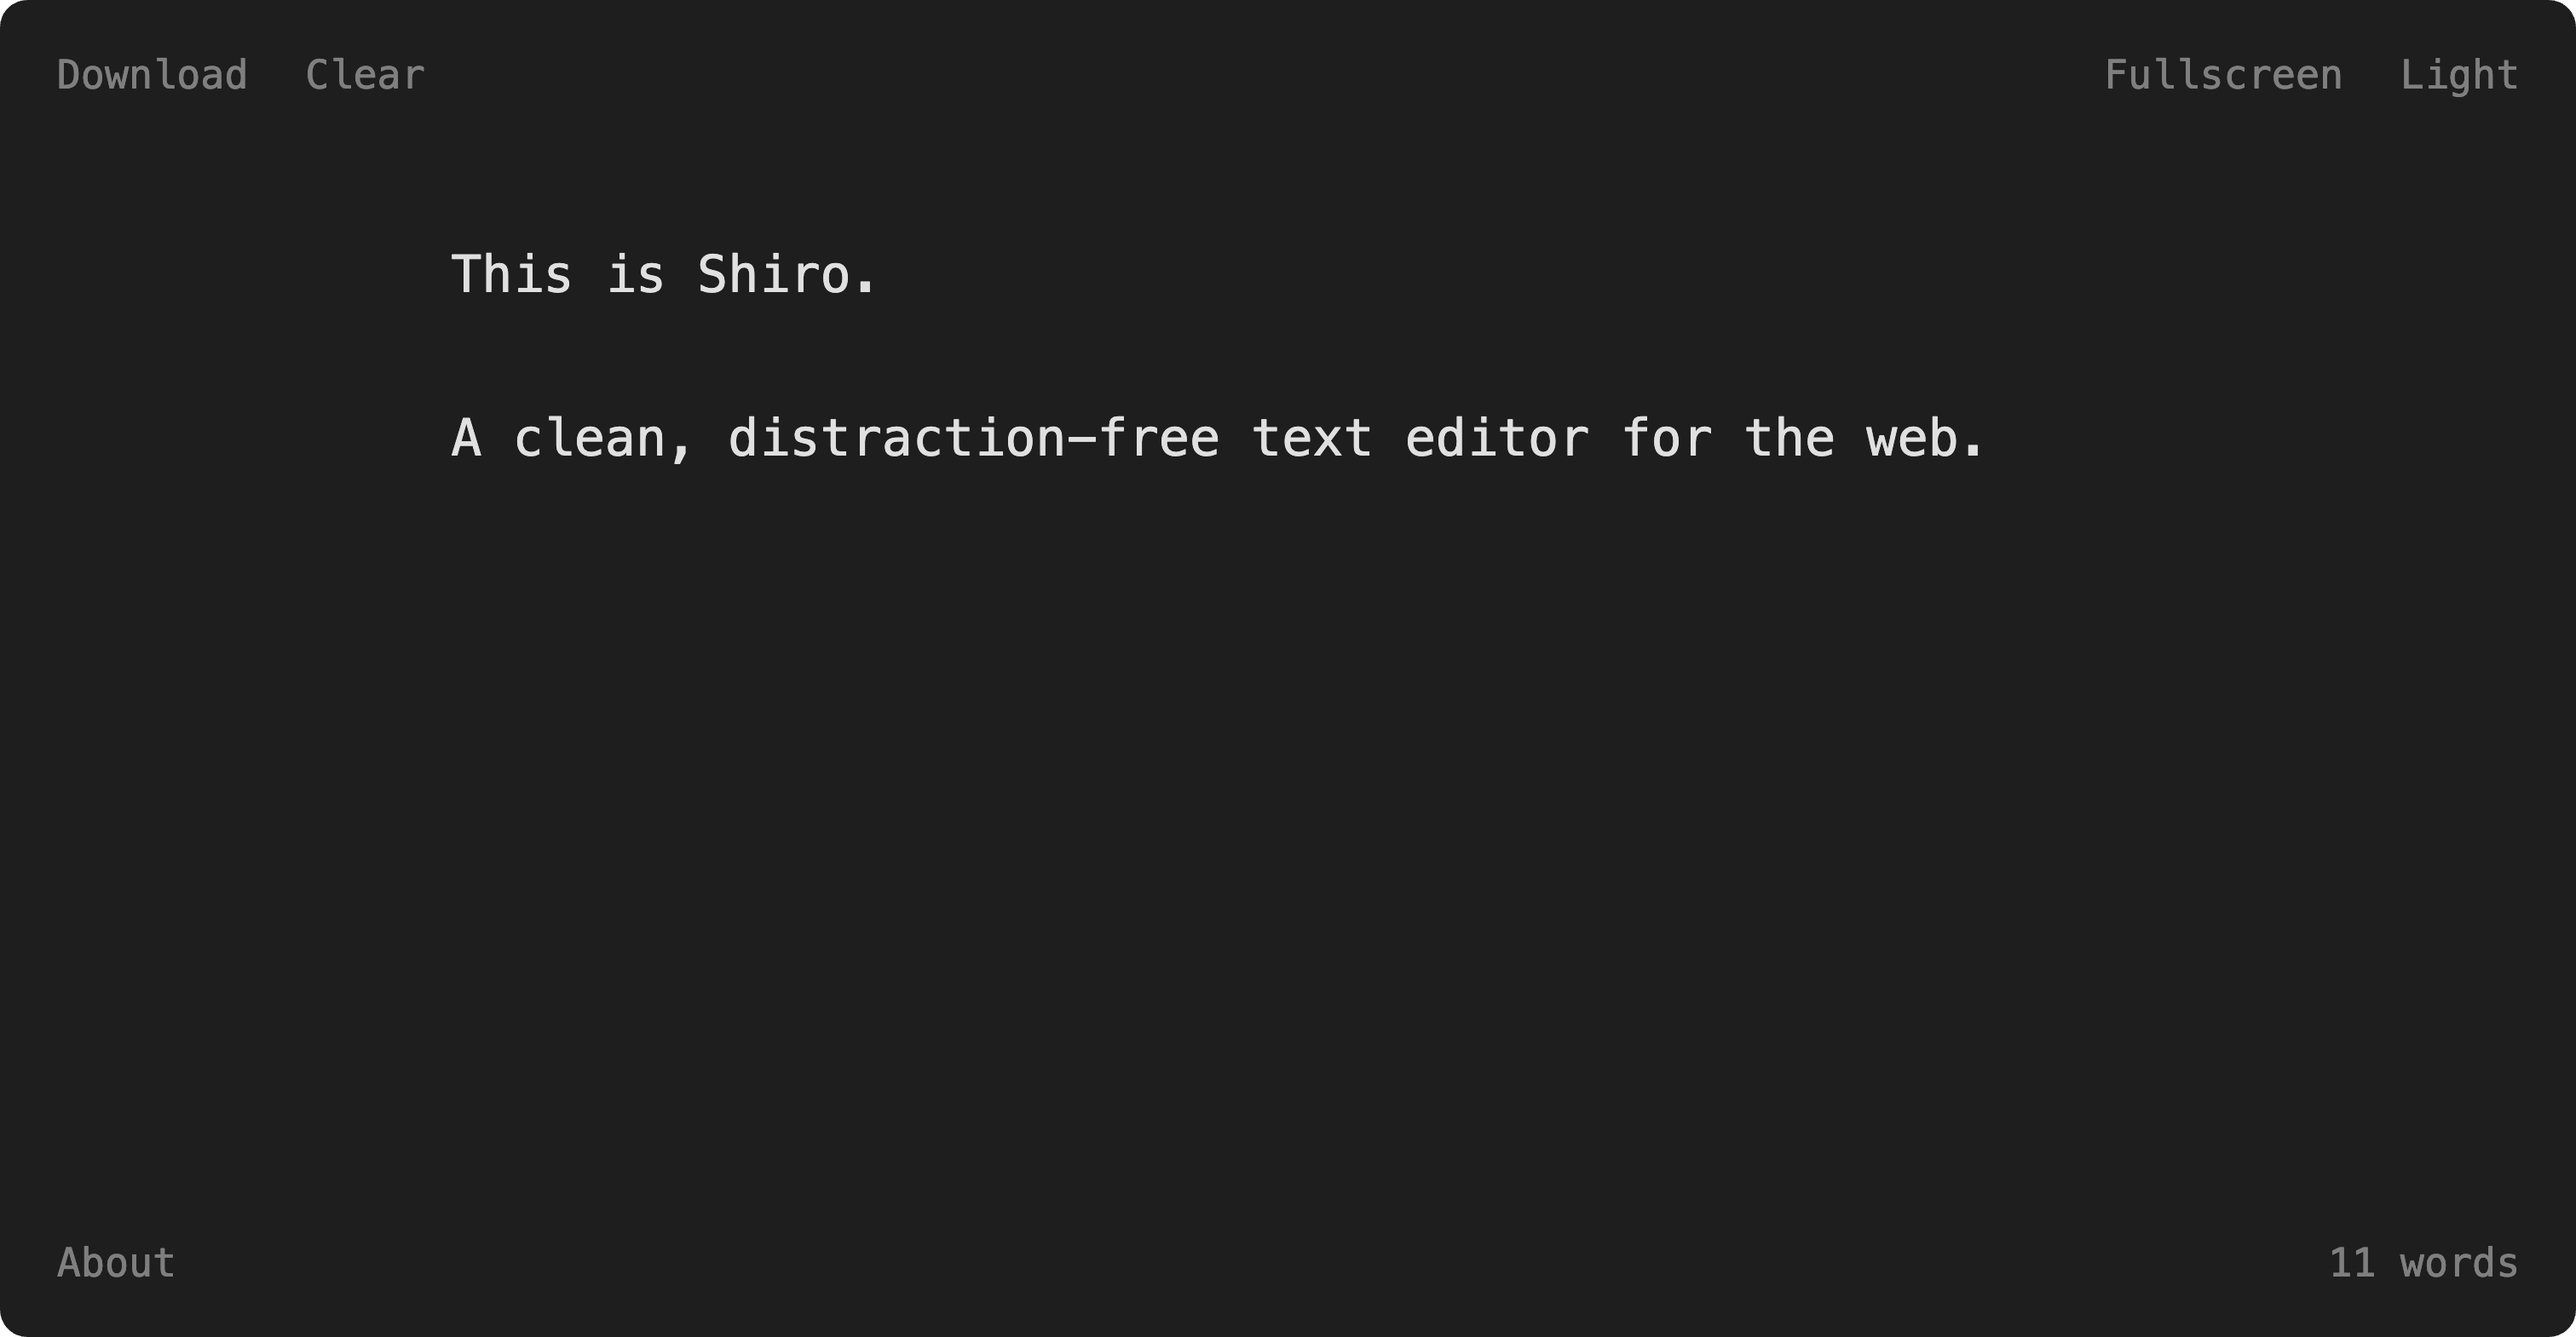
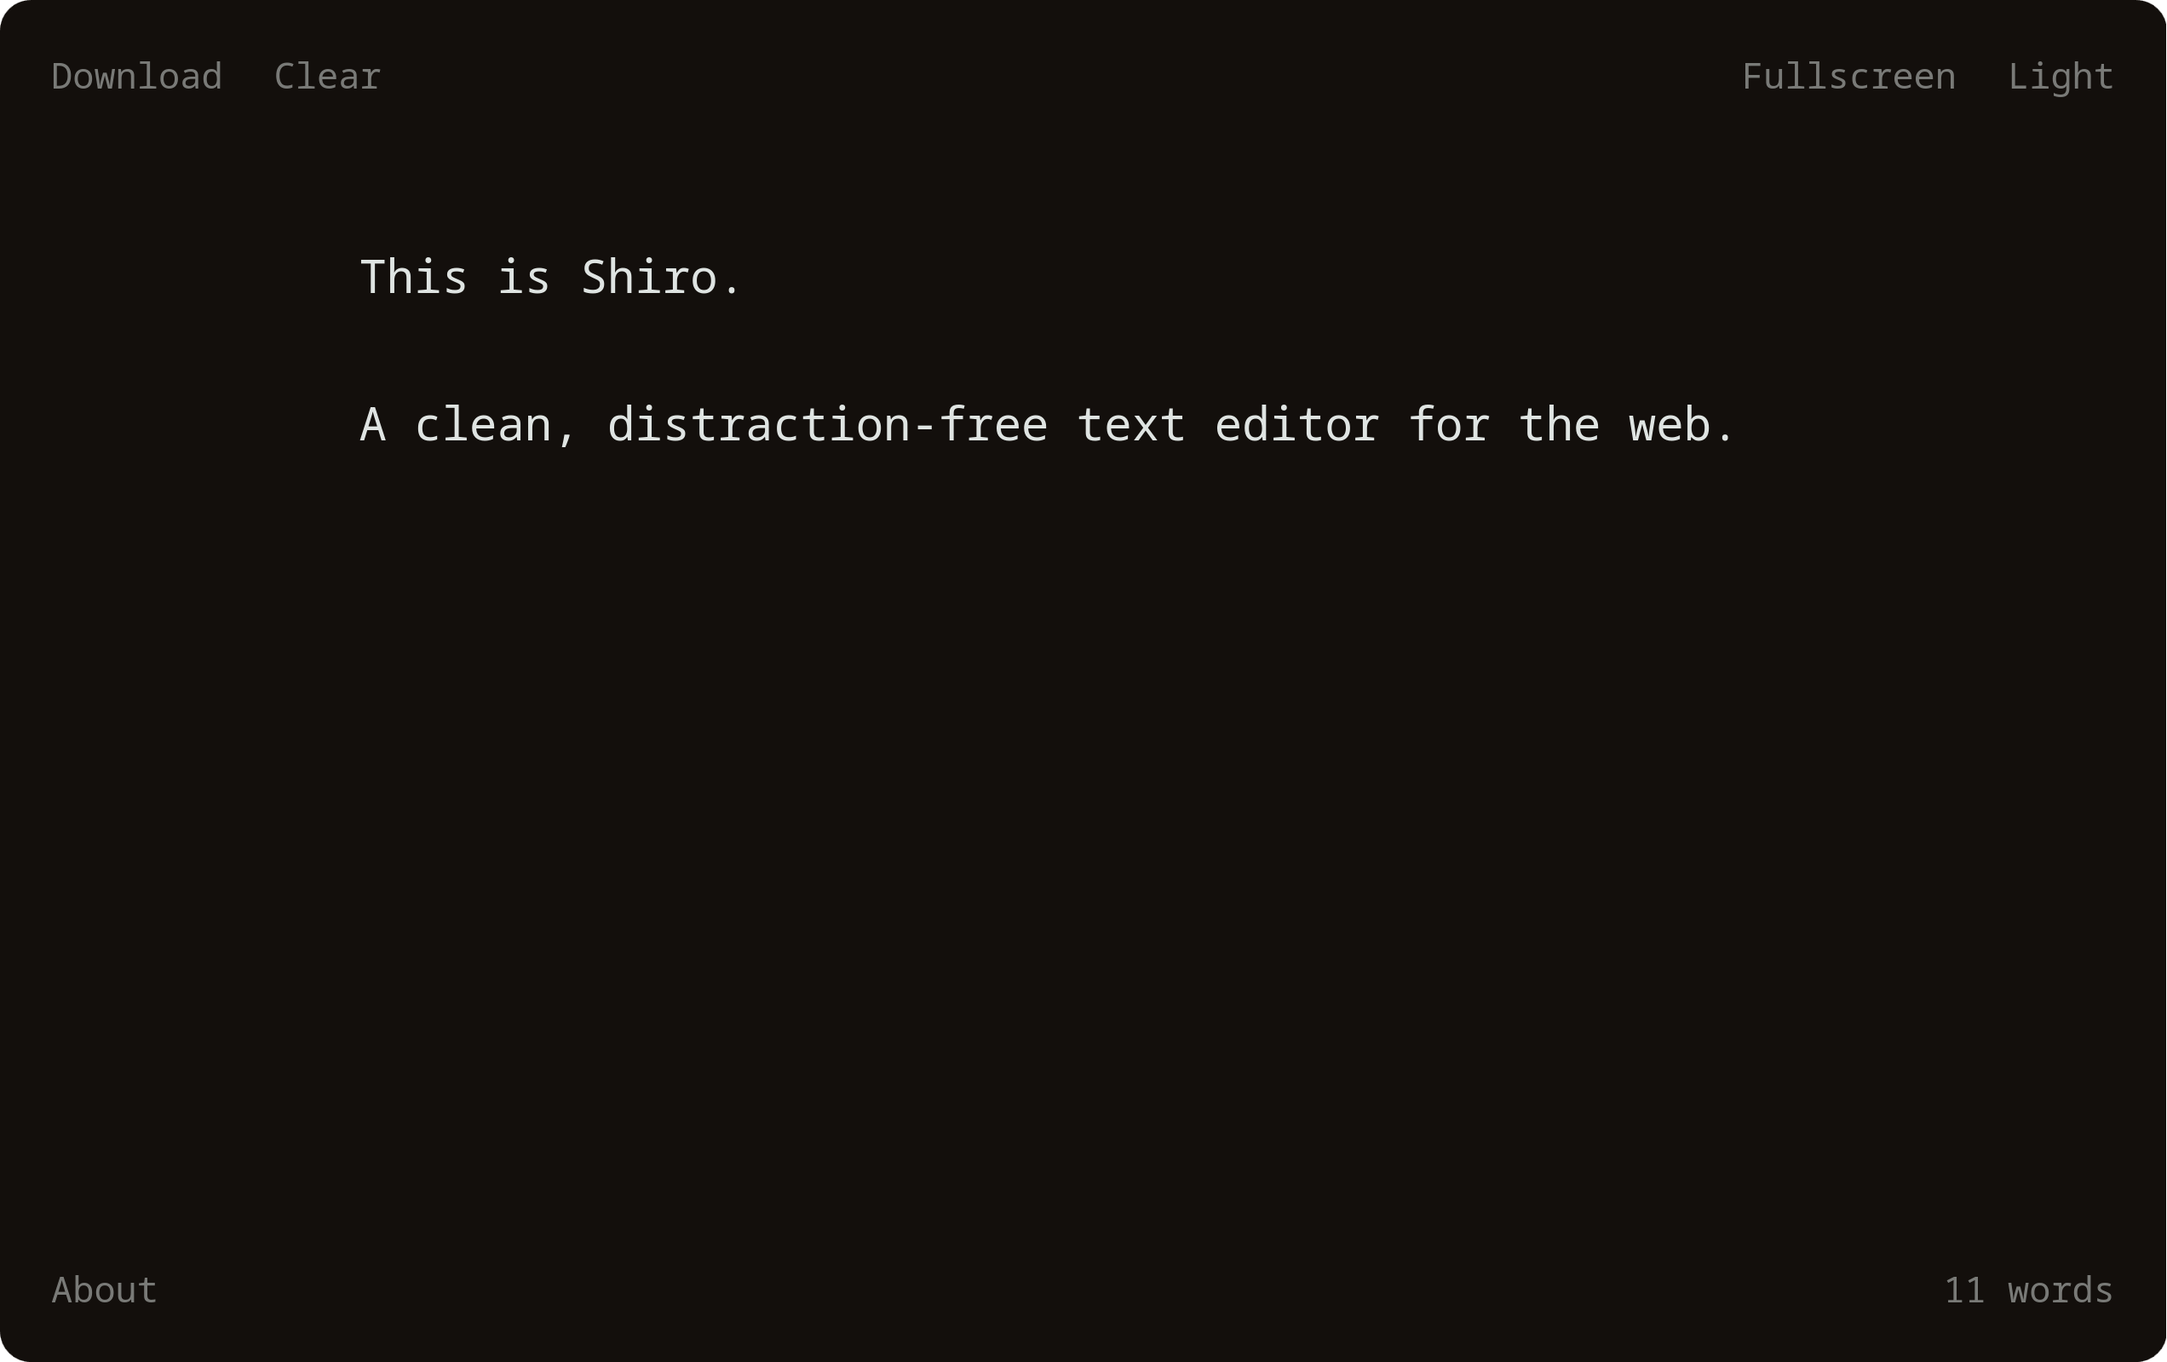
Update README (#19)

diff --git a/README.md b/README.md
@@ -4,20 +4,20 @@ A clean, distraction-free text editor for the web.
 
 <p align="center">
   <a href="https://vsakkas.github.io/shiro/">
-    <img src="assets/screenshot_dark.png" alt="Shiro Text Editor">
+    <img src="assets/screenshot_light.png" alt="Shiro Text Editor">
   </a>
   <i>Click the image to try Shiro</i>
 </p>
 
 ## Features
 
-- **Distraction-Free Writing** — Clean interface that fades away as you type
-- **Dark & Light Themes** — Easy on the eyes, day or night
-- **Auto-Save** — Your text stays safe in your browser
-- **Word Count** — Track your progress effortlessly
-- **Export to File** — Save your work as a plain text file
-- **Full-Screen Mode** — Immerse yourself completely
-- **Privacy First** — No tracking, no cookies, no accounts
+- **Distraction-Free Writing** - Clean interface that fades away as you type
+- **Dark & Light Themes** - Easy on the eyes, day or night
+- **Auto-Save** - Your text stays safe in your browser
+- **Word Count** - Track your progress effortlessly
+- **Export to File** - Save your work as a plain text file
+- **Full-Screen Mode** - Immerse yourself completely
+- **Privacy First** - No tracking, no cookies, no accounts
 
 ## License
 
